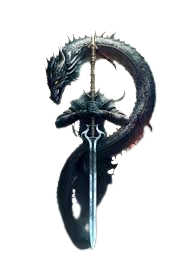
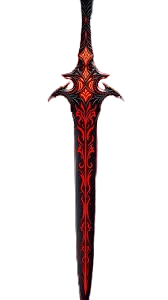
made about page of portfolio

Changed region(s): [[0.2381, 0.0, 0.8631, 1.0]]

diff --git a/index.html b/index.html
@@ -6,6 +6,7 @@
     <meta name="viewport" content="width=device-width, initial-scale=1.0">
     <title>Document</title>
     <link rel="stylesheet" href="assets/css/styles.css">
+    <link rel="stylesheet" href="https://cdnjs.cloudflare.com/ajax/libs/font-awesome/6.5.2/css/all.min.css">
 </head>
 
 <body>
@@ -32,11 +33,11 @@
                     <div class="home-page-content">
                         <div class="user-info">
                             <h1>GAURAB ARYAL</h1>
-                            <span id="user-title">Web Developer & Penetration Tester</span>
+                            <span id="user-title">Web Developer · Cybersecurity</span>
                         </div>
                         <div class="user-second-info">
-                            <p>I build clean, functional web projects and study
-                                full-stack development and cybersecurity fundamentals.</p>
+                            <p>I build secure web applications and specialize in full-stack development with a
+                                cybersecurity focus</p>
                         </div>
                         <div class="user-buttons">
                             <a href="#projects" class="btn primary-btn">
@@ -58,17 +59,106 @@
 
                 </div>
                 <div class="home-page-ground">
-                <div class="ground">
+                    <div class="ground">
 
+                    </div>
                 </div>
             </div>
-            </div>
         </section>
-        
     </div>
 
+    <section id="about" class="about-section">
+        <div class="about-main-container">
+            <div class="about-content">
+                <div class="image">
+                    <img src="assets/images/me.png" calss="my-image" alt="My Image">
+                </div>
+                <div class="about-me index-title">
+                    <div class="intro">
+                        <span class="about-title">Who I am</span>
+                        <p>Lorem ipsum dolor sit amet, consectetur adipisicing elit. Eos ullam, eligendi veniam beatae
+                            tempora iure, officia quos libero, quod qui accusamus ipsa distinctio animi magni
+                            perferendis laudantium ea harum fugiat!</p>
+                    </div>
+                    <div class="jourey">
+                        <span class="about-title">My jourey</span>
+                        <p>Lorem ipsum dolor sit amet, consectetur adipisicing elit. Eos ullam, eligendi veniam beatae
+                            tempora iure, officia quos libero, quod qui accusamus ipsa distinctio animi magni
+                            perferendis laudantium ea harum fugiat!</p>
+                    </div>
+                    <div class="approach">
+                        <span class="about-title">My approach</span>
+                        <p>Lorem ipsum dolor sit amet, consectetur adipisicing elit. Eos ullam, eligendi veniam beatae
+                            tempora iure, officia quos libero, quod qui accusamus ipsa distinctio animi magni
+                            perferendis laudantium ea harum fugiat!</p>
+                    </div>
+                    <a href="#resume" class="btn primary-btn">
+                        View Resume
+                    </a>
+                </div>
+            </div>
 
-<script src="assets/js/main.js"></script>
+            <div class="about-skill">
+                <div class="about-skill-container">
+                    <div class="skill-title">
+                        <span class="line"></span>
+                        <span>Skills</span>
+                        <span class="line"></span>
+                    </div>
+                    <div class="skill-content">
+                        <div class="skill-item">
+                            <h2>
+                                <i class="fa-solid fa-code"></i>
+                                Programming languages
+                            </h2>
+                            <span>C & C++</span>
+                            <span>Python</span>
+                            <span>Php</span>
+
+                        </div>
+                        <div class="skill-item">
+                            <h2>
+                                <i class="fa-solid fa-globe"></i>
+                                 Web Development
+                            </h2>
+                            <span>HTML</span>
+                            <span>CSS</span>
+                            <span>JavaScript</span>
+                            <span>React</span>
+                            <span>Node.js</span>
+                            <span>Express.js</span>
+
+
+                        </div>
+                        <div class="skill-item">
+                            <h2>
+                                <i class="fa-solid fa-shield-halved"></i>
+                                Cybersecurity
+                            </h2>
+                            <span>Metasploit</span>
+                            <span>Msvemon</span>
+                            <span>Wireless security</span>
+
+                        </div>
+                        <div class="skill-item">
+                            <h2> <i class="fa-solid fa-toolbox"></i>
+
+                                Tools</h2>
+                            <span>Kali Linux</span>
+                            <span>MySQL</span>
+                            <span>Git</span>
+                            <span>GitHub</span>
+                        </div>
+                    </div>
+                </div>
+            </div>
+        </div>
+    </section>
+
+
+
+
+    <script src="assets/js/main.js"></script>
 </body>
 
 </html>

diff --git a/assets/css/about.css b/assets/css/about.css
@@ -1,0 +1,147 @@
+.about-section {
+    min-height: 100vh;
+    padding: 0;
+    margin: 0;
+}
+
+.about-main-container {
+    padding: 2rem;
+    position: relative;
+    width: 100%;
+    height: 100%;
+}
+
+.about-content {
+    height: auto;
+    overflow: hidden;
+
+    display: grid;
+    grid-template-columns: 400px 1fr;
+    /* Image takes 400px, text takes the rest */
+    gap: 20px;
+}
+
+.image {
+    position: static;
+    height: 100%;
+}
+
+.my-image {
+    object-fit: cover;
+    object-position: top center;
+    width: 100%;
+    height: 100%;
+    scale: 1.2;
+}
+
+.index-title {
+    margin-bottom: 1rem;
+}
+
+.about-me {
+    text-align: start;
+    max-width: 620px;
+}
+
+.intro,
+.jourey,
+.approach {
+    height: auto;
+    width: 100%;
+}
+
+.about-title {
+    color: var(--main-white-color);
+    font-size: 1.6rem;
+    margin-bottom: 0.4rem;
+}
+
+.about-title::before {
+  content: "— ";
+  color: var(--main-red-color);
+}
+
+
+
+.about-skill {
+    padding: 4rem 0;
+    margin: 0;
+    height: auto;
+    width: 100%;
+}
+
+.about-skill-container {
+    height: 100%;
+    width: 100%;
+    display: flex;
+    flex-direction: column;
+    align-items: center;
+}
+
+.skill-title {
+    height: 50px;
+    width: 100%;
+    margin-bottom: 1rem;
+    text-align: center;
+    display: flex;
+    align-items: center;
+    justify-content: center;
+
+}
+
+.line {
+    margin-top: .3rem;
+    height: .2rem;
+    width: 40%;
+    background-color: var(--main-red-color);
+}
+
+.skill-title span {
+    font-weight: bold;
+    font-size: 2rem;
+    margin: 1rem;
+}
+
+.skill-content {
+    display: flex;
+    flex-direction: row;
+    justify-content: space-between;
+    align-items: center;
+}
+
+.skill-item {
+    display: flex;
+    justify-content: center;
+    flex-direction: column;
+    align-items: center;
+    padding: 1rem;
+    border-right: 1px solid var(--main-red-color);
+}
+
+.skill-item:last-child {
+    border-right: none;
+
+}
+
+.skill-item h2 {
+    font-size: 1.5rem;
+    padding-bottom: 1rem;
+    border-bottom: 1px solid var(--main-red-color);
+}
+
+.skill-item span {
+    text-align: center;
+    font-size: 1rem;
+    margin-bottom: 0.5rem;
+    position: relative;
+}
+
+.skill-item span::before {
+    content: "-";
+    color: var(--main-red-color);
+    align-self: left;
+    width: 3px;
+    height: 4px;
+    position: relative;
+    left: -1rem;
+}

diff --git a/assets/css/home.css b/assets/css/home.css
@@ -43,7 +43,7 @@
 }
 
 .user-info h1 {
-    font-size: 3.5rem;
+    font-size: clamp(4rem, 4.5rem, 5rem);
     margin: 0;
     font-weight: 700;
     letter-spacing: 0.1em;
@@ -51,7 +51,7 @@
 }
 
 .user-info span {
-    font-size: 1.1rem;
+    font-size: 1.125rem;
     color: var(--alternate-white-color);
     letter-spacing: 0.08em;
     font-weight: 400;
@@ -129,6 +129,7 @@
     --offset: 0px;
     transform: translateY(var(--offset));
     transform-origin: bottom center;
+    scale: 1.3;
 
     transition:
         transform 0.5s cubic-bezier(0.34, 1.56, 0.64, 1),
@@ -138,13 +139,13 @@
 
 .sword:nth-child(1) {
     height: 300px;
-    width: 200px;
+    width: 140px;
     --offset: 70px;
 }
 
 .sword:nth-child(2) {
-    height: 450px;
-    width: 140px;
+    height: 300px;
+    width: 170px;
     --offset: 60px;
 }
 

diff --git a/assets/css/setup_scss.css b/assets/css/setup_scss.css
@@ -7,7 +7,7 @@
     --heading-font-family: 'Cinzel', serif;
 
     /* font size */
-    --main-font-size: 1.6rem;
+    --main-font-size: 1.25rem;
 
     /* ink */
     --main-ink-color: #141414;

diff --git a/assets/css/header.css b/assets/css/header.css
@@ -53,7 +53,7 @@
 }
 
 .link {
-    font-size: 1rem;
+    font-size: 0.9375rem;
     padding: 0.5rem 1rem;
     height: auto;
     width: auto;

diff --git a/assets/css/styles.css b/assets/css/styles.css
@@ -2,3 +2,4 @@
 @import url('header.css');
 @import url('home.css');
 @import url('responsive.css');
+@import url('about.css');
